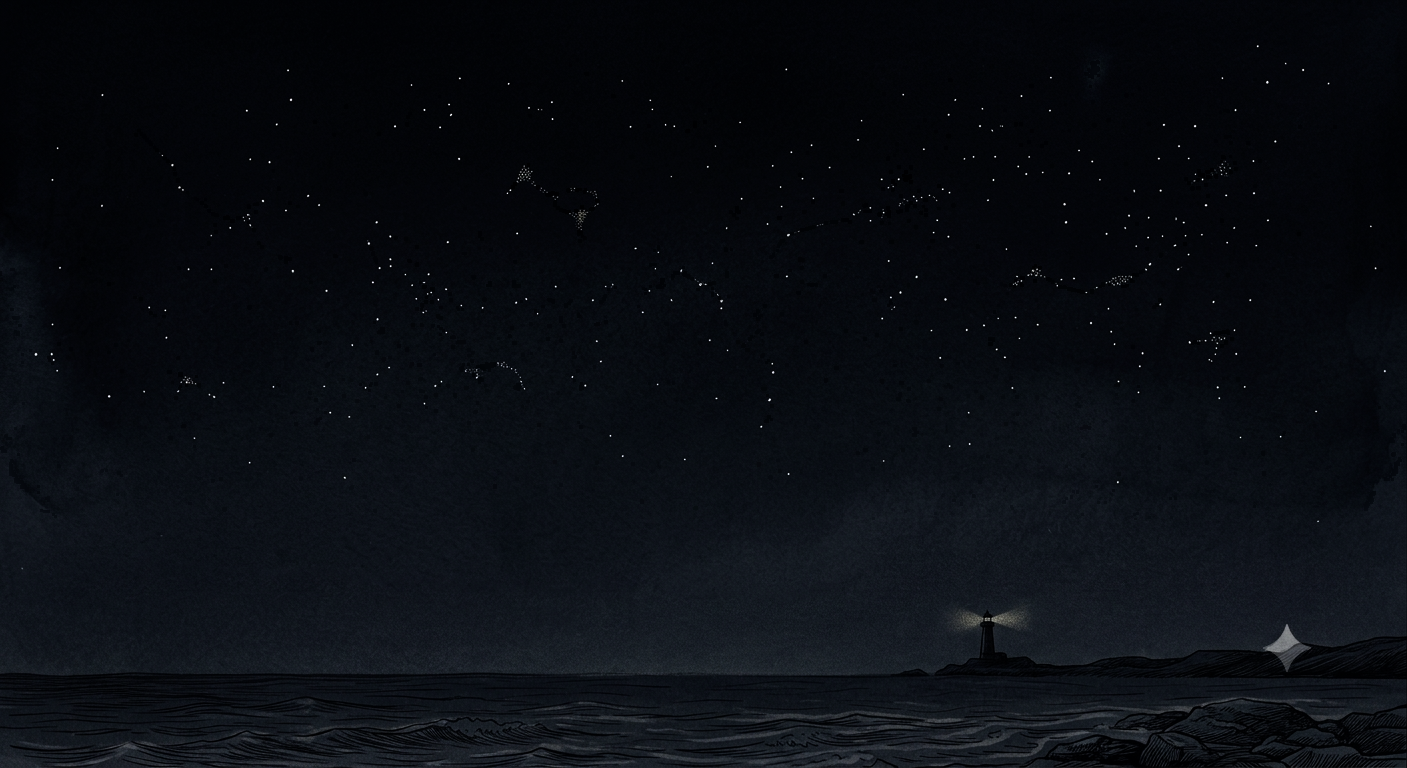
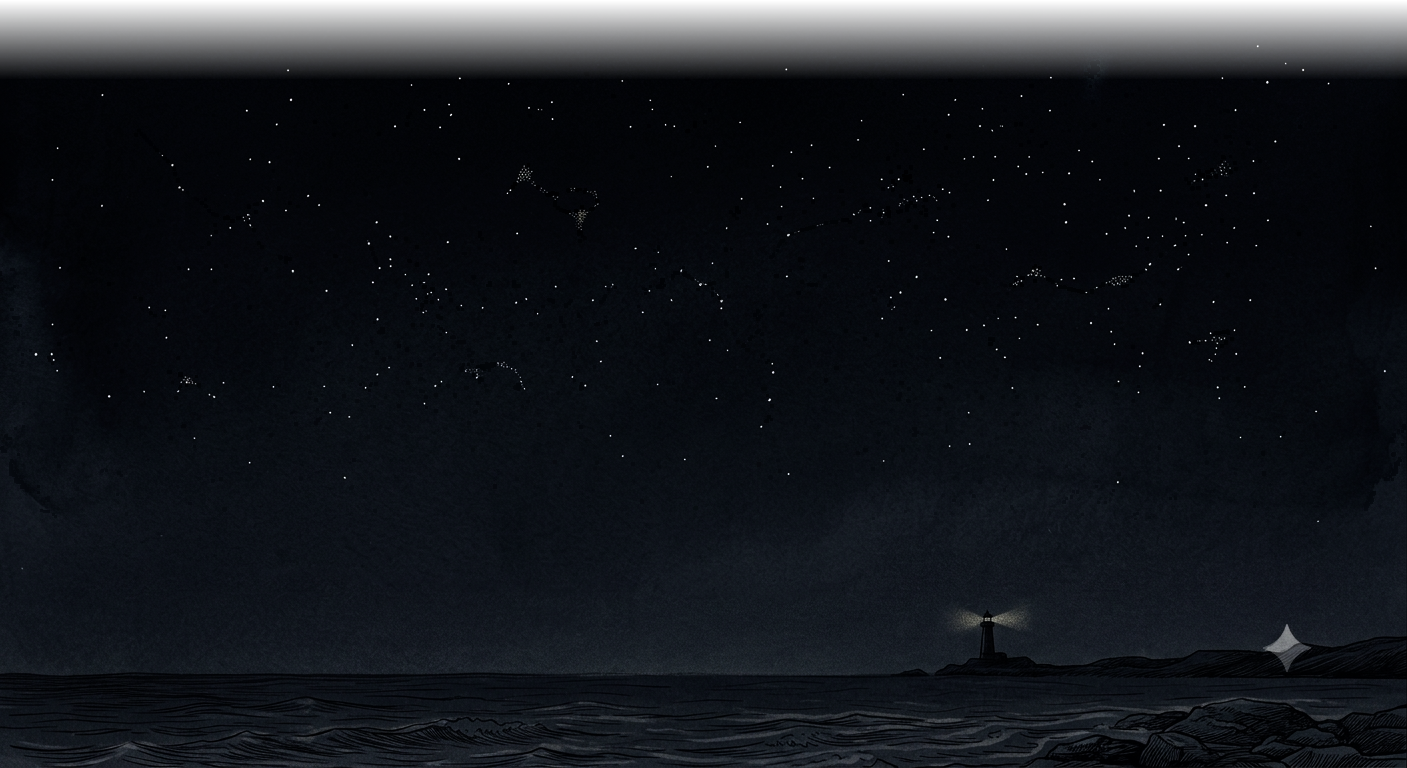
fix(layout): restore left-aligned desktop canvas and add responsive cover background for mobile

Changed region(s): [[0.0, 0.0, 1.0, 0.0938]]

diff --git a/src/app/globals.css b/src/app/globals.css
@@ -32,13 +32,25 @@
         }
     }
 
-    /* Page Canvas Positioning (Canonical Centered Layout across all devices) */
+    /* Page Canvas Positioning (Left-Anchored on Desktop, Cleanly Centered on Mobile) */
     .page-canvas {
         margin-left: auto !important;
         margin-right: auto !important;
-        max-width: var(--content-width, 896px) !important;
-        width: 100%;
-        transition: max-width 0.2s ease;
+        transition: margin-left 0.2s ease, max-width 0.2s ease;
+    }
+
+    @media (min-width: 768px) {
+        [data-page-align="left"] .page-canvas {
+            margin-left: var(--page-left-offset, 120px) !important;
+            margin-right: auto !important;
+            max-width: min(94vw, 1440px) !important;
+        }
+
+        [data-page-align="center"] .page-canvas {
+            margin-left: auto !important;
+            margin-right: auto !important;
+            max-width: min(94vw, 1440px) !important;
+        }
     }
 
     /* Header Navigation Layout: Balanced Title on Left, Navigation on Right */
@@ -109,6 +121,7 @@
 
     body {
         background-attachment: fixed;
+        background-repeat: no-repeat;
         background-color: var(--bg-color);
         color: var(--text-color);
         font-size: 1rem;
@@ -117,18 +130,30 @@
             "liga" 1,
             "onum" 1;
         font-variant-numeric: oldstyle-nums;
-        background-image: url("/real_read_mode.original.png");
-        background-repeat: no-repeat;
-        background-position: bottom center;
-        background-size: 100% auto;
         min-height: 100vh;
         transition:
             background-color 0.3s ease,
             color 0.3s ease;
+        /* Mobile: cover entire height, anchored to bottom 70% to frame the lighthouse */
+        background-size: cover;
+        background-position: 70% bottom;
+    }
+
+    /* Light mode background */
+    :not(.dark) body {
+        background-image: url("/real_read_mode.original.png");
     }
 
     .dark body {
         background-image: url("/real_write_mode.png");
+    }
+
+    @media (min-width: 768px) {
+        body {
+            /* Desktop: 100% width, bottom center */
+            background-size: 100% auto;
+            background-position: bottom center;
+        }
     }
 
     a {

diff --git a/src/app/layout.tsx b/src/app/layout.tsx
@@ -37,7 +37,7 @@ export default function RootLayout({
             lang="en"
             suppressHydrationWarning
             className={`${newsreader.variable} ${geistMono.variable} h-full antialiased`}
-            data-page-align="center"
+            data-page-align="left"
             data-entry-align="justified"
         >
             <head>
@@ -53,7 +53,7 @@ export default function RootLayout({
                 <HorizonForeground />
                 <GlassFrame>
                     {/* Hand-drawn switch button attached directly to the right border of GlassFrame */}
-                    <div className="absolute right-2 md:-right-10 top-0 bottom-0 pointer-events-none z-30">
+                    <div className="absolute right-2 md:-right-[12px] top-0 bottom-0 pointer-events-none z-30">
                         <div className="sticky top-20 sm:top-24 pointer-events-auto flex items-center justify-center">
                             <ThemeToggle />
                         </div>
@@ -70,7 +70,7 @@ export default function RootLayout({
                         </div>
                     </header>
 
-                    <main className="flex-1 content-box w-full">
+                    <main className="flex-1 content-box w-full" style={{ maxWidth: "var(--content-width, 896px)" }}>
                         {children}
                     </main>
                 </GlassFrame>

diff --git a/src/components/HorizonForeground.tsx b/src/components/HorizonForeground.tsx
@@ -11,7 +11,7 @@ export default function HorizonForeground() {
                 alt=""
                 fetchPriority="high"
                 decoding="sync"
-                className="dark:hidden absolute bottom-0 left-0 w-full h-auto pointer-events-none select-none"
+                className="dark:hidden fixed inset-0 w-full h-full object-cover object-[70%_bottom] md:object-bottom md:h-auto md:top-auto md:bottom-0 pointer-events-none select-none"
             />
             {/* Dark mode foreground horizon */}
             {/* eslint-disable-next-line @next/next/no-img-element */}
@@ -20,7 +20,7 @@ export default function HorizonForeground() {
                 alt=""
                 fetchPriority="high"
                 decoding="sync"
-                className="hidden dark:block absolute bottom-0 left-0 w-full h-auto pointer-events-none select-none"
+                className="hidden dark:block fixed inset-0 w-full h-full object-cover object-[70%_bottom] md:object-bottom md:h-auto md:top-auto md:bottom-0 pointer-events-none select-none"
             />
         </div>
     );

diff --git a/src/components/Glassframe.tsx b/src/components/Glassframe.tsx
@@ -6,7 +6,7 @@ export default function GlassFrame({
     children: React.ReactNode;
 }) {
     return (
-        <div className="page-canvas relative w-full max-w-4xl mx-auto my-8 px-6 sm:px-8 pt-6 sm:pt-8 pb-28 sm:pb-32 transition-all duration-300 z-10 border-none bg-transparent backdrop-blur-none">
+        <div className="page-canvas relative w-full max-w-6xl mx-auto my-8 px-6 sm:px-8 pt-6 sm:pt-8 pb-28 sm:pb-32 transition-all duration-300 z-10 border-none bg-transparent backdrop-blur-none">
             {children}
         </div>
     );

diff --git a/GEMINI.md b/GEMINI.md
@@ -24,12 +24,16 @@
 
 ## Design Decisions & Palette Records
 - **Base Typography:** 20px desktop base size (`--base-font-size: 20px`, responsive 16px on mobile `< 640px`), 1.65 line leading, Newsreader serif (`--font-newsreader`), OpenType old-style numbers enabled (`oldstyle-nums`, `"onum" 1`).
-- **Canvas Layout & Margin:** Centered across all devices (`mx-auto`, `--content-width: 896px` / `max-w-4xl`) with responsive horizontal gutters (`px-6 sm:px-8`). Delivers balanced, symmetrical margins on mobile, laptop, desktop, and ultrawide screens.
-- **Header & Navigation Placement:** Unified within the 896px content box. `SiteTitle` anchors to the left, `Navigation` anchors to the right, aligning cleanly edge-to-edge above content and essay date columns.
+- **Canvas Layout & Margin:** Left-anchored on desktop (`>= 768px`) with 120px left margin (`--page-left-offset: 120px`, `data-page-align="left"`). Centered with natural gutters (`mx-auto`, `px-6 sm:px-8`) on mobile.
+- **Header & Navigation Placement:** `SiteTitle` anchors to the left, `Navigation` anchors to the right, aligning edge-to-edge above content and essay date columns.
 - **Essay Line Alignment:** Justified edge-to-edge (`data-entry-align="justified"`), minimum distance / safety gap: 28px (`--entry-gap: 28px`).
-- **Background Art:**
+- **Background Art & Responsive Sizing:**
   - Light mode: Original Read (`/real_read_mode.original.png`).
-  - Dark mode: Strictly locked to `/real_write_mode.png` (cosmic night sky, never modified).
+  - Dark mode: Strictly locked to `/real_write_mode.png` (cosmic night sky).
+  - Responsive Scaling:
+    - Mobile (`< 768px` portrait): `background-size: cover; background-position: 70% bottom;` (covers 100% viewport height, framing the lighthouse cleanly without letterboxing).
+    - Desktop (`>= 768px` landscape): `background-size: 100% auto; background-position: bottom center;`.
+  - Seamless Alpha Feathering: Top 80px feathered with linear alpha ramp to `--bg-color`, preventing any horizontal cut line across all viewport aspect ratios.
 - **Navigation & Active State:** Brackets indicate current location (`[ Sahaj Singh ]` on `/`, `[now]` on `/now`).
 - **Unselected / Secondary Text Evaluation:**
   - **Chosen Palette:**
